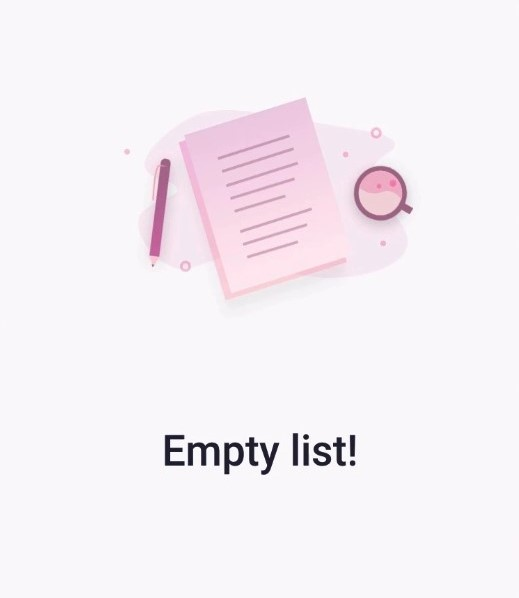
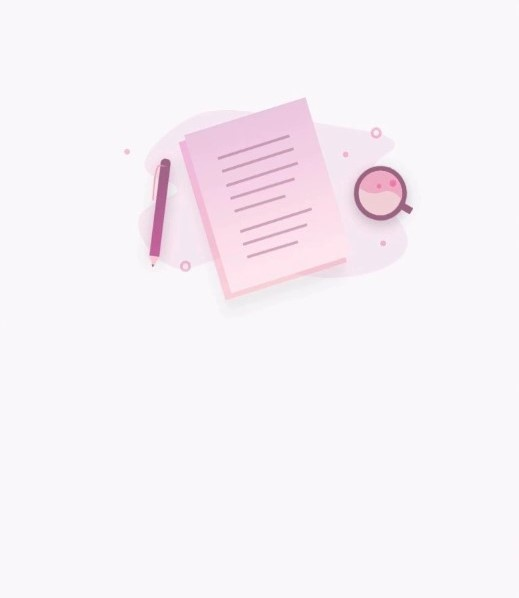
added more HTML and CSS

Changed region(s): [[0.3083, 0.7224, 0.7091, 0.8127]]

diff --git a/index.html b/index.html
@@ -11,18 +11,101 @@
     <link rel="stylesheet" href="https://cdn.jsdelivr.net/npm/bootstrap-icons@1.5.0/font/bootstrap-icons.css">
     <!-- CSS -->
     <link rel="stylesheet" href="./src/css/style.css">
+    <!-- Logo icon -->
+    <link rel="shortcut icon" href="./data/favicon.ico" type="image/x-icon">
 </head>
 <body>
-    <div class="container-fluid" style="border: solid 1px red;">
-        <div class="row justify-content-center" style="border: solid 1px blue;">
-            <div class="col-9 col-sm-8 col-md-7 col-lg-6 col-xl-5 col-xxl-4 gx-0 " style="border: solid 1px green;">
-                <div id="welcomeMessage" class="d-flex flex-column justify-content-center align-items-center" style="height: 100vh;">
-                    <img class="img-fluid" src="/data/empty_list.jpg" alt="">
-                    <button class="btn btn-outline-success col-6 mx-auto mt-4 fw-bold" type="button"><i class="bi bi-plus-circle pe-3"></i>Add Item</button>
+    <div class="container-fluid" style="borderXXX: solid 1px red;">
+        <div class="row justify-content-center" style="borderXXX: solid 1px blue;">
+            <div class="col-10 col-sm-9 col-md-8 col-lg-7 col-xl-6 col-xxl-5 gx-0 " style="borderXXX: solid 1px green;">
+                <!-- Welcome message -->
+                <div id="welcomeMessage" style="borderXXX: solid 1px rgb(230, 19, 177); display: none;">
+                    <div class="d-flex flex-column justify-content-center align-items-center" style="height: 100vh;">
+                        <img class="img-fluid" src="/data/empty_list.jpg" alt="">
+                        <button id="addBtn" class="btn btn-outline-success mt-3 col-6 fw-bold" type="button"><i class="bi bi-plus-circle pe-3"></i>Add Item</button>
+                    </div>
+                    <p id="message" class="fs-5 fw-bold" style="borderXXX: solid 1px blue;">Empty List! Add an item to start shopping</p>
+                </div>
+                <!-- Shopping List -->
+                <div class="my-4 rounded-3" style="border: solid 1px rgb(243, 164, 17); displayXXX: none; background-color: whitesmoke">
+                    <p class="fs-3 text-center my-5">My Shopping List</p>
+                    <!-- Input -->
+                    <div id="input" class="mb-3 mx-5">
+                        <div class="input-group">
+                            <input id="inputField" type="text" class="form-control" placeholder="Recipient's username">
+                            <button id="addItemBtn" class="btn btn-outline-success" type="button"><i class="bi bi-plus-circle pe-3"></i>Add Item</button>
+                        </div>
+                        <small class="errorMessage">Please insert a valid item</small>
+                    </div>
+
+                    <!-- Data -->
+                    <div id="data">
+                        <!-- Filtering -->
+                        <div id="filter" class="d-flex justify-content-end align-items-center">
+                            <i class="bi bi-filter me-2"></i>
+                            <div class="btn-toolbar">
+                                
+                                <select class="form-select form-select-sm" aria-label=".form-select-sm example">
+                                    <option selected>Category</option>
+                                    <option value="1">One</option>
+                                    <option value="2">Two</option>
+                                    <option value="3">Three</option>
+                                </select>
+                            </div>
+                        </div>
+                        <!-- Table -->
+                        <div id="mainTable">
+                            <table class="table table-primary table-hover mb-0 table-borderlessXXX table-bordered">
+                                <thead>
+                                    <tr>
+                                        <th scope="col" style="width: 4%;"></th>
+                                        <th scope="col" style="width: 5%;"></th>
+                                        <th scope="col">Item<i class="bi bi-sort-alpha-up ms-3 me-1"></i><i class="bi bi-sort-alpha-down-alt"></i></th>
+                                        <th scope="col"style="width: 20%;">Category<i class="bi bi-sort-alpha-up ms-3 me-1"></i><i class="bi bi-sort-alpha-down-alt"></i></th>
+                                        <th scope="col"style="width: 13%;"></th>
+                                        <th scope="col"style="width: 6%;"></th>
+                                    </tr>
+                                </thead>
+                                <tbody>
+                                    <tr>
+                                        <td>1</td>
+                                        <td><input id="checkbox" class="form-check-input" type="checkbox" value=""></td>
+                                        <td>bananas</td>
+                                        <td>bananas</td>
+                                        <td><button type="button" class="btn btn-primary btn-sm m-0 p-0 px-2">Rename</button></td>
+                                        <td><button type="button" class="btn-close" aria-label="Close"></button></td>
+                                    </tr>
+                                    <tr>
+                                        <td>1</td>
+                                        <td><input id="checkbox" class="form-check-input" type="checkbox" value=""></td>
+                                        <td>bananas</td>
+                                        <td>bananas</td>
+                                        <td><button type="button" class="btn btn-primary btn-sm m-0 p-0 px-2">Rename</button></td>
+                                        <td><button type="button" class="btn-close" aria-label="Close"></button></td>
+                                    </tr>
+                                    <tr>
+                                        <td>1</td>
+                                        <td><input id="checkbox" class="form-check-input" type="checkbox" value=""></td>
+                                        <td>bananas</td>
+                                        <td>bananas</td>
+                                        <td><button type="button" class="btn btn-primary btn-sm m-0 p-0 px-2">Rename</button></td>
+                                        <td><button type="button" class="btn-close" aria-label="Close"></button></td>
+                                    </tr>
+                                    <tr>
+                                        <td>1</td>
+                                        <td><input id="checkbox" class="form-check-input" type="checkbox" value=""></td>
+                                        <td>bananas</td>
+                                        <td>bananas</td>
+                                        <td><button type="button" class="btn btn-primary btn-sm m-0 p-0 px-2">Rename</button></td>
+                                        <td><button type="button" class="btn-close" aria-label="Close"></button></td>
+                                    </tr>
+                                </tbody>
+                            </table>
+                        </div>
+                    </div>
                 </div>
             </div>
         </div>
-
     </div>
 
     <!-- Separate Popper and Bootstrap JS -->

diff --git a/src/css/style.css b/src/css/style.css
@@ -10,14 +10,6 @@ html {
     box-sizing: inherit;
 }
 
-/* html {
-    background: url(/data/background.jpeg) no-repeat center center fixed;
-    -webkit-background-size: cover;
-    -moz-background-size: cover;
-    -o-background-size: cover;
-    background-size: cover;
-} */
-
 /* Responsive Full Background Image Using CSS */
 body {
     background-image: url(/data/background.jpeg);
@@ -27,3 +19,33 @@ body {
     background-size: cover;
     background-color:#928a8a;
 }
+
+.visibleOff {
+    display: none;
+}
+
+#welcomeMessage {
+    position: relative;
+}
+
+#message {
+    position: absolute;
+    bottom: 30%;
+    left: 50% ;
+    transform: translateX(-50% );
+    text-align: center;
+}
+
+.errorMessage {
+    display: visible;
+}
+
+#sortAndFilter {
+    margin-left: 9%;
+    margin-right: 27%;
+}
+
+th {
+    font-weight: normal;
+    color: 
+} 

diff --git a/src/app.js b/src/app.js
@@ -1,0 +1,23 @@
+// variables
+const items =[];
+const welcomeMessage = document.getElementById('welcomeMessage');
+const addBtn = document.getElementById('addBtn');
+
+// event listeners
+
+// window.addEventListener('load', (event) => {
+//     console.log('page is fully loaded');
+//     if (items.length !== 0) {
+//         welcomeMessage.classList.add('visibleOff');
+//     }
+// });
+
+addBtn.addEventListener('click', () => {
+    welcomeMessage.classList.add('visibleOff');
+})
+
+// display the welcome message
+if (items.length !== 0) {
+    welcomeMessage.classList.add('visibleOff');
+    // console.log('at least 1 item in list present');
+}
